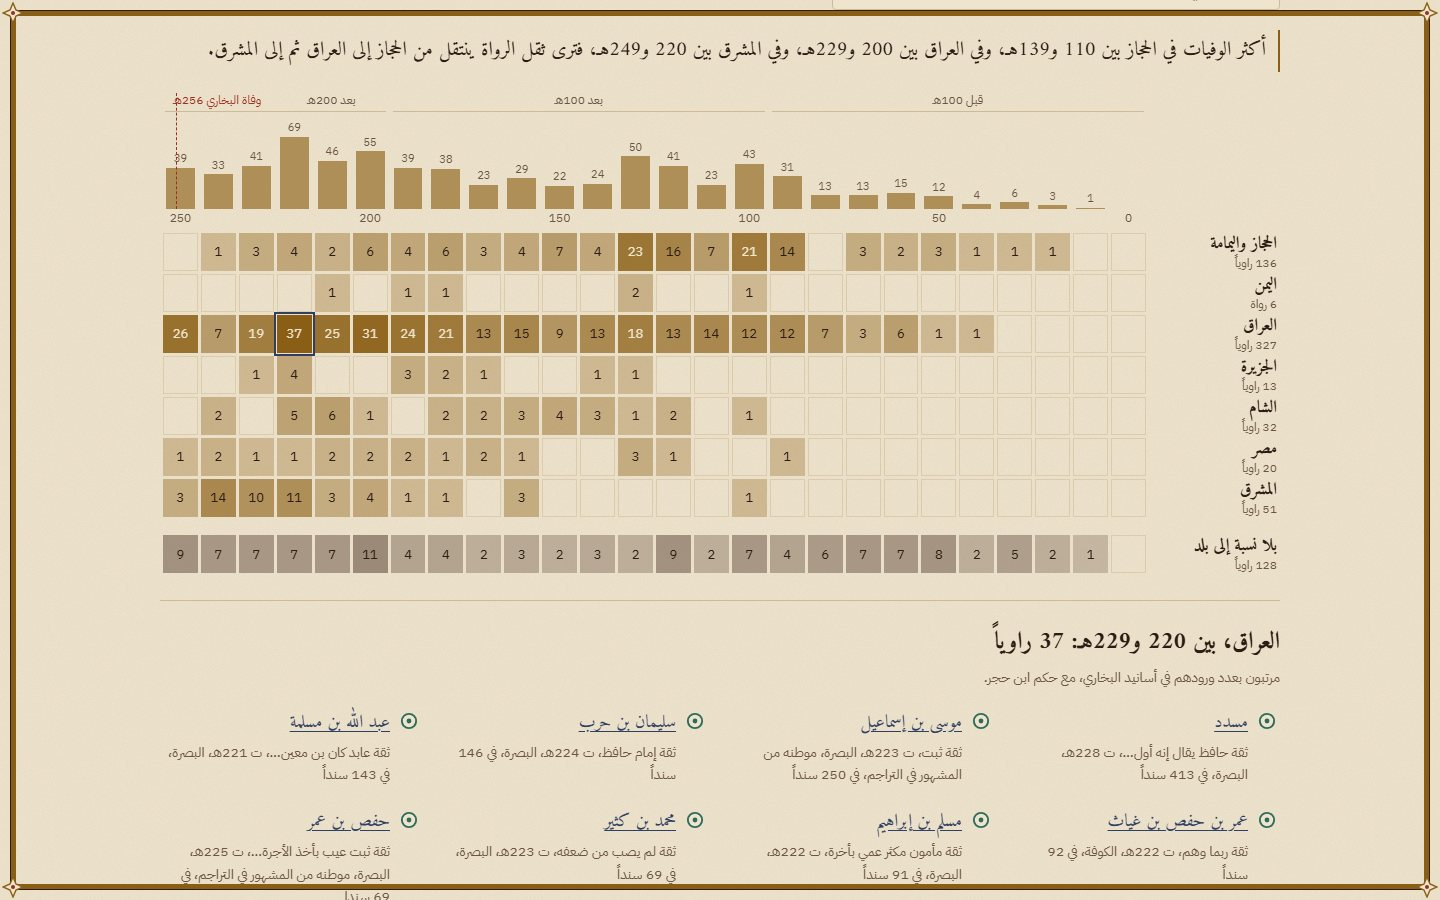
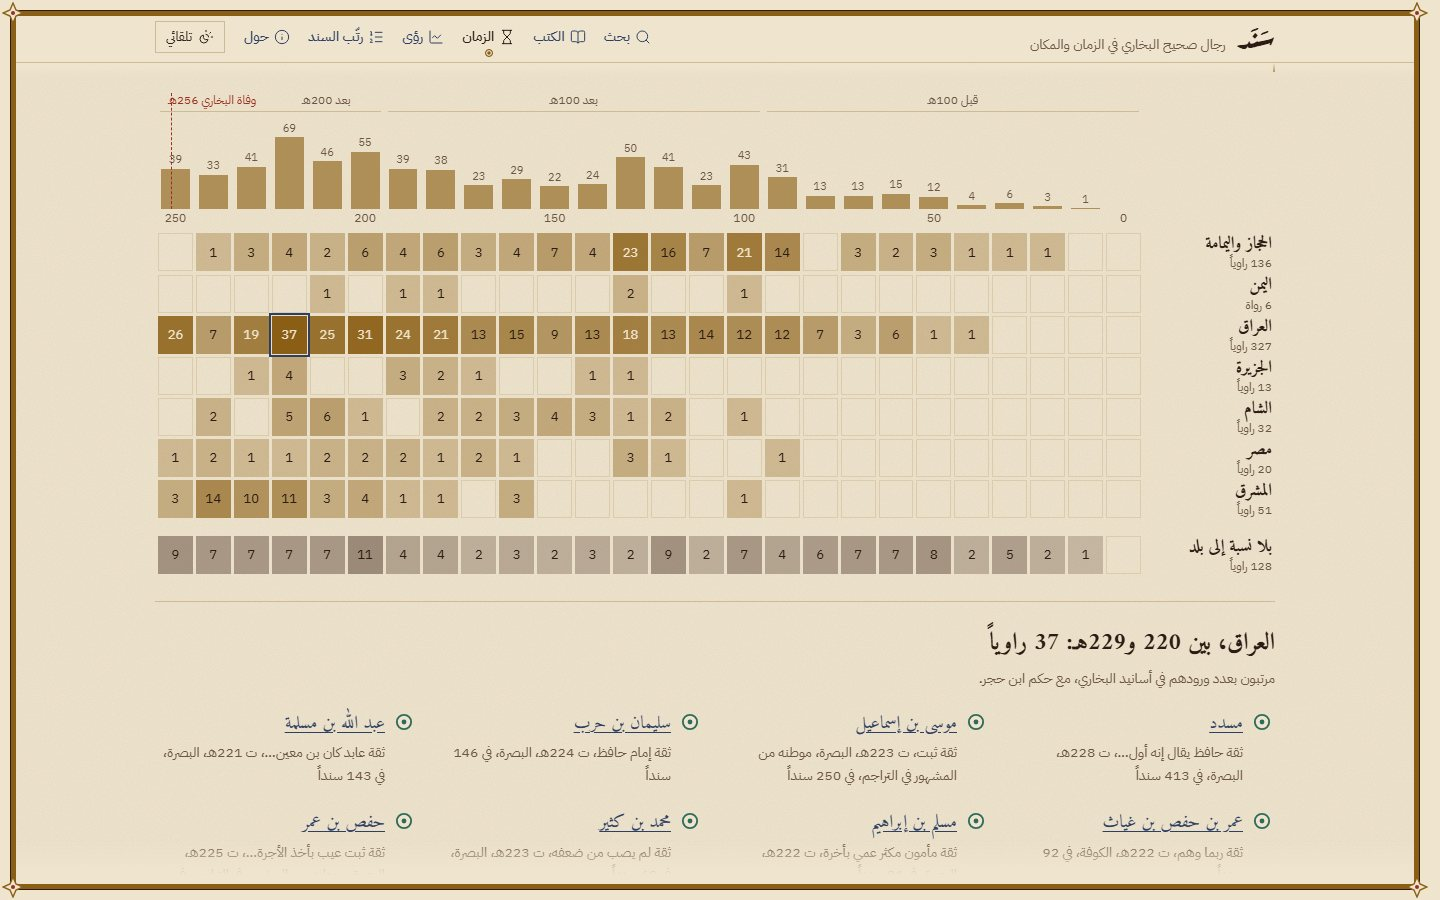
Replace the rank filters on the time page with one strip

diff --git a/src/components/TimeView.tsx b/src/components/TimeView.tsx
@@ -28,11 +28,14 @@ const ERAS = [
   { label: "بعد 200هـ", from: 20, span: 6 },
 ];
 const GROUPS: Group[] = ["sahabi", "thiqa", "saduq", "maqbul", "daif", "see"];
+// short enough to be written on the narrowest parts of the strip
+const STRIP_NAME: Record<Group, string> = { sahabi: "صحابي", thiqa: "ثقة", saduq: "صدوق", maqbul: "مقبول", daif: "ضعيف", see: "انظر الترجمة" };
 const NONE = "none";
 const SHORT: Record<string, string> = { hijaz: "الحجاز", yemen: "اليمن", iraq: "العراق", jazira: "الجزيرة", sham: "الشام", misr: "مصر", east: "المشرق", none: "بلا نسبة" };
 const BIG_REGIONS = 3; // named in the summary
 const MIN_FOR_SUMMARY = 5;
 const WINDOW = 3; // decades: thirty years
+const TWEEN_MS = 300;
 
 const decadeOf = (y: number) => Math.min(LAST, Math.floor(y / 10));
 const span = (d: number) => (d === LAST ? "من 250هـ فما بعدها" : `بين ${d * 10} و${d * 10 + 9}هـ`);
@@ -124,6 +127,13 @@ export default function TimeView() {
     return out;
   }, [file, rows, rowOf, off]);
 
+  // the cells that have anyone at all: they stay in place, faded, while their groups are hidden
+  const every = useMemo(() => {
+    const out = rows.map(() => DECADES.map(() => false));
+    for (const n of file?.narrators ?? []) out[rowOf(n)][decadeOf(n.y)] = true;
+    return out;
+  }, [file, rows, rowOf]);
+
   const most = useMemo(() => Math.max(1, ...grid.flat().map((c) => c.length)), [grid]);
   const fullest = useMemo<Selection>(() => {
     let best: Selection = { r: 0, d: 0 };
@@ -193,7 +203,7 @@ export default function TimeView() {
 
   const title = sel.r === undefined ? `${span(sel.d)}: ${men(decadeTotal(sel.d))}` : cellLabel(sel.r, sel.d);
   const list = <Roster sel={sel} rows={rows} grid={grid} cities={cities} focus={focus} />;
-  const tableProps = { rows, grid, most, sel, hover, allDecades, pick, point, leave, cellLabel };
+  const tableProps = { rows, grid, every, most, sel, hover, allDecades, pick, point, leave, cellLabel };
 
   return (
     <main className={`mx-auto max-w-6xl px-4 py-6 phone:px-1 ${phone ? "pb-24" : ""}`}>
@@ -204,25 +214,7 @@ export default function TimeView() {
           <strong className="font-semibold text-midad"><CountNum value={file.dated} /> من <CountNum value={file.total} /> راوياً لهم سنة وفاة معروفة.</strong>
         </p>
 
-        <div className="mt-4 flex flex-wrap items-center gap-2 phone:flex-nowrap phone:overflow-x-auto" role="group" aria-label="مجموعات المراتب">
-          {GROUPS.filter((g) => file.narrators.some((n) => n.g === g)).map((g) => (
-            <button
-              key={g}
-              type="button"
-              aria-pressed={!off.has(g)}
-              onClick={() => {
-                const next = new Set(off);
-                if (next.has(g)) next.delete(g);
-                else next.add(g);
-                setOff(next);
-              }}
-              className={`flex items-center gap-1.5 rounded-sm border px-2.5 py-1 text-sm phone:min-h-11 phone:shrink-0 phone:whitespace-nowrap ${off.has(g) ? "border-khatt text-midad-soft line-through" : "border-midad-soft"}`}
-            >
-              <span className="inline-block size-2.5 rounded-full" style={{ background: GROUP_COLOR[g] }} aria-hidden="true" />
-              {GROUP_LABEL[g]} <span className="tabular-nums text-midad-soft">{file.narrators.filter((n) => n.g === g).length}</span>
-            </button>
-          ))}
-        </div>
+        <RankStrip narrators={file.narrators} off={off} setOff={setOff} />
 
         <div className="relative mt-3 max-w-md">
           <label htmlFor="time-q" className="sr-only">ابحث عن راوٍ</label>
@@ -250,7 +242,9 @@ export default function TimeView() {
           )}
         </div>
 
-        <p className="naskh mt-5 border-s-2 border-mughra ps-3 text-xl leading-loose">{summary(rows, grid)}</p>
+        <p className="naskh mt-5 border-s-2 border-mughra ps-3 text-xl leading-loose" aria-live="polite">
+          {summary(rows, grid) || "لم تبقَ مجموعة ظاهرة، فاضغط «الكل» لإعادتها."}
+        </p>
       </div>
 
       <div ref={stage} className={`relative mt-4 deaths-${fill}`}>
@@ -292,9 +286,75 @@ export default function TimeView() {
   );
 }
 
+/** One strip cut in the shares of the groups: a pressed part is full of its colour, the others only outlined. */
+function RankStrip({ narrators, off, setOff }: { narrators: Narr[]; off: Set<Group>; setOff: (s: Set<Group>) => void }) {
+  const parts = GROUPS.map((g) => ({ g, n: narrators.filter((x) => x.g === g).length })).filter((p) => p.n);
+  return (
+    <div className="rank-strip" role="group" aria-label="مجموعات المراتب">
+      {parts.map(({ g, n }) => (
+        <Fragment key={g}>
+          <button
+            type="button"
+            className="rank-part"
+            aria-pressed={!off.has(g)}
+            aria-label={`${GROUP_LABEL[g]}: ${men(n)}`}
+            style={{ "--ink": GROUP_COLOR[g], flexGrow: n } as React.CSSProperties}
+            onClick={() => {
+              const next = new Set(off);
+              if (next.has(g)) next.delete(g);
+              else next.add(g);
+              setOff(next);
+            }}
+          >
+            <span>{STRIP_NAME[g]}</span>
+            <b>{n}</b>
+          </button>
+          {/* on a phone the strip folds here, after the great part */}
+          {g === "thiqa" && <i className="rank-fold" aria-hidden="true" />}
+        </Fragment>
+      ))}
+      <button type="button" className="rank-all" aria-pressed={off.size === 0} onClick={() => setOff(new Set())}>
+        الكل
+      </button>
+    </div>
+  );
+}
+
+/** A count that runs to its new value when the groups change. */
+function Count({ value, className }: { value: number; className?: string }) {
+  // the text belongs to the tween: React only writes the first value
+  const [first] = useState(value);
+  const ref = useRef<HTMLSpanElement>(null);
+  const shown = useRef(value);
+  useEffect(() => {
+    const el = ref.current;
+    const from = shown.current;
+    if (!el || from === value) return;
+    const paint = (n: number) => {
+      shown.current = n;
+      el.textContent = n ? String(n) : "";
+    };
+    if (window.matchMedia("(prefers-reduced-motion: reduce)").matches) {
+      paint(value);
+      return;
+    }
+    let raf = 0;
+    const start = performance.now();
+    const tick = (now: number) => {
+      const t = Math.min(1, (now - start) / TWEEN_MS);
+      paint(Math.round(from + (value - from) * t));
+      if (t < 1) raf = requestAnimationFrame(tick);
+    };
+    raf = requestAnimationFrame(tick);
+    return () => cancelAnimationFrame(raf);
+  }, [value]);
+  return <span ref={ref} className={className}>{first || ""}</span>;
+}
+
 type TableProps = {
   rows: Row[];
   grid: Narr[][][];
+  every: boolean[][];
   most: number;
   sel: Selection;
   hover: Selection | null;
@@ -328,7 +388,7 @@ function Cell({ r, d, t }: { r: number; d: number; t: TableProps }) {
   const n = t.grid[r][d].length;
   const on = t.sel.r === r && t.sel.d === d;
   const lit = t.hover && (t.hover.d === d || t.hover.r === r);
-  if (!n) {
+  if (!t.every[r][d]) {
     return (
       <td className={lit ? "deaths-lit" : undefined}>
         <span className="deaths-empty"><span className="sr-only">لا أحد</span></span>
@@ -336,7 +396,7 @@ function Cell({ r, d, t }: { r: number; d: number; t: TableProps }) {
     );
   }
   // the square root keeps the small counts visible beside the great ones
-  const strength = Math.round(16 + 84 * Math.sqrt(n / t.most));
+  const strength = n ? Math.round(16 + 84 * Math.sqrt(n / t.most)) : 0;
   const pigment = t.rows[r].id === NONE ? "var(--midad-soft)" : "var(--mughra)";
   const label = t.cellLabel(r, d);
   return (
@@ -346,6 +406,7 @@ function Cell({ r, d, t }: { r: number; d: number; t: TableProps }) {
         data-r={r}
         data-d={d}
         tabIndex={on ? 0 : -1}
+        disabled={!n}
         aria-label={label}
         aria-pressed={on}
         className="deaths-cell"
@@ -360,7 +421,7 @@ function Cell({ r, d, t }: { r: number; d: number; t: TableProps }) {
         onFocus={(e) => t.point({ r, d }, label, e.currentTarget)}
         onBlur={t.leave}
       >
-        {n}
+        <Count value={n} />
       </button>
     </td>
   );
@@ -394,7 +455,7 @@ function WideTable(t: TableProps) {
                   onClick={() => t.pick({ d })}
                   className={on ? "is-on" : undefined}
                 >
-                  <span className="tabular-nums">{n || ""}</span>
+                  <Count value={n} className="tabular-nums" />
                   <i className="deaths-bar" style={{ height: (72 * n) / tallest, "--d": d } as React.CSSProperties} />
                 </button>
                 <b aria-hidden="true">{d % 5 === 0 ? d * 10 : ""}</b>
@@ -467,7 +528,7 @@ function TallTable(t: TableProps) {
                   onClick={() => t.pick({ d })}
                   className={`deaths-total ${t.sel.r === undefined && t.sel.d === d ? "is-on" : ""}`}
                 >
-                  {t.allDecades[d] || ""}
+                  <Count value={t.allDecades[d]} />
                 </button>
               </td>
             </tr>

diff --git a/src/app/globals.css b/src/app/globals.css
@@ -468,6 +468,69 @@ html[data-scrolled] .site-mark > span:first-child {
 
 /* ---------------------------------------------------------------- the deaths table (TimeView.tsx)
    A ruled manuscript table: empty cells keep only a faint rule, counted ones are washed in ochre. */
+/* the groups of ranks: one strip cut in their shares, the small ones kept wide enough to press */
+.rank-strip {
+  display: flex;
+  gap: 3px;
+  margin-top: 16px;
+}
+.rank-part {
+  flex: 1 1 0;
+  min-width: 44px;
+  min-height: 42px;
+  display: flex;
+  flex-wrap: wrap;
+  align-items: center;
+  justify-content: center;
+  gap: 0 5px;
+  padding: 2px;
+  font-size: 13px;
+  line-height: 1.2;
+  color: var(--midad);
+  box-shadow: inset 0 0 0 1.5px var(--ink);
+  cursor: pointer;
+}
+.rank-part[aria-pressed="true"] {
+  background: var(--ink);
+  color: var(--raqq);
+}
+@media (hover: hover) {
+  .rank-part[aria-pressed="true"]:hover {
+    opacity: 0.85;
+  }
+}
+.rank-part b {
+  font-weight: 600;
+  font-variant-numeric: tabular-nums;
+}
+.rank-fold {
+  display: none;
+}
+.rank-all {
+  flex: none;
+  min-width: 44px;
+  padding-inline: 10px;
+  font-size: 13px;
+  border: 1px solid var(--khatt);
+  cursor: pointer;
+}
+.rank-all[aria-pressed="true"] {
+  color: var(--midad-soft);
+}
+@media (max-width: 860px), (max-height: 500px) and (pointer: coarse) {
+  .rank-strip {
+    flex-wrap: wrap;
+  }
+  .rank-fold {
+    display: block;
+    flex-basis: 100%;
+    height: 0;
+  }
+  .rank-part {
+    min-height: 44px;
+  }
+}
+
 .deaths {
   border-collapse: separate;
   border-spacing: 3px;
@@ -491,14 +554,18 @@ html[data-scrolled] .site-mark > span:first-child {
   font-size: 13px;
   font-variant-numeric: tabular-nums;
   cursor: pointer;
-  transition: background-color 0.15s, box-shadow 0.15s, transform 0.15s;
+  transition: background-color 0.3s, color 0.3s, box-shadow 0.15s, transform 0.15s;
+}
+.deaths-cell:disabled {
+  cursor: default;
+  box-shadow: inset 0 0 0 1px color-mix(in srgb, var(--khatt) 55%, transparent);
 }
 @media (hover: hover) {
-  .deaths-cell:hover {
+  .deaths-cell:not(:disabled):hover {
     box-shadow: inset 0 0 0 1.5px var(--midad);
   }
 }
-.deaths-cell:active {
+.deaths-cell:not(:disabled):active {
   transform: scale(0.94);
 }
 .deaths-cell[aria-pressed="true"] {
